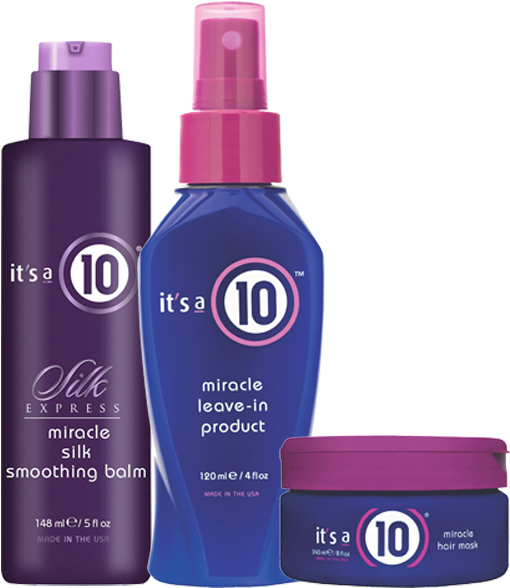
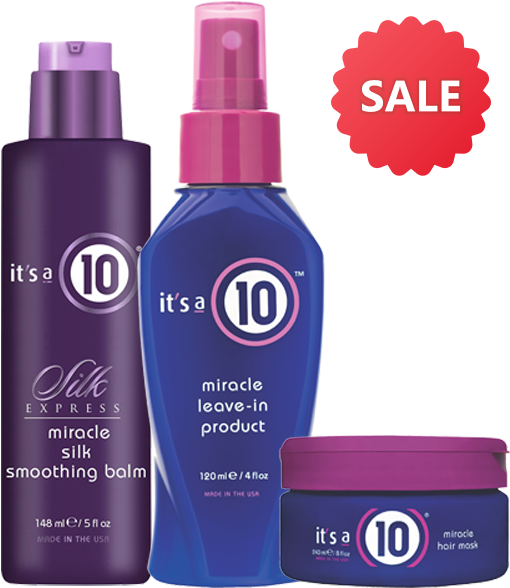
Added sale stickers and edited services
I added some sale stickers using GIMP and I evened out the prices on my services page

Changed region(s): [[0.6471, 0.0306, 0.9706, 0.3061]]

diff --git a/docs/services.html b/docs/services.html
@@ -8,7 +8,6 @@
     <link rel="stylesheet" href="https://stackpath.bootstrapcdn.com/bootstrap/4.3.1/css/bootstrap.min.css" integrity="sha384-ggOyR0iXCbMQv3Xipma34MD+dH/1fQ784/j6cY/iJTQUOhcWr7x9JvoRxT2MZw1T" crossorigin="anonymous">
     <nav class="navbar navbar-expand-lg nav-back fixed-top"
     id="mainNav">
-    <a class="navbar-icon" href="index.html"><img src="images/icon.png" alt="Scissors"</img></a>
     <img src="images/logo_txt.png" class='logo-txt' alt="Gretchen's Hair Salon" height='50'</img>
       <div class="container">
           <button class="navbar-toggler navbar-toggler-right" type="button"
@@ -28,7 +27,6 @@
                     href="consultation.html">Consultations</a></li>
               </ul>
           </div>
-      </div>
 
           <button onclick="darkMode()">Darkmode</button>
           <button onclick="lightMode()">LightMode</button>
@@ -47,6 +45,7 @@
             }
           </script>
     </nav>
+    </div>
 
 <h1 class='s-title'>Services</h1>
     <div class="row">
@@ -59,51 +58,50 @@
 
  <h2>Hair Cuts</h2>
 
-    <p> Women's Cut.......................55.00-75.00</p>
-    <p> Men's Cut.........................35.00-55.00</p>
-    <p> Kid's Cut(10 and under)...........25.00</p>
+    <p> Women's Cut............. 55.00-75.00</p>
+    <p> Men's Cut................... 35.00-55.00</p>
+    <p> Kid's Cut(10 and under)......25.00</p>
 
 <h2> Hair Styles</h2>
 
-   <p> Wash and Blow Dry....................40.00-50.00</p>
-   <p>Half Updo.............................65.00</p>
-   <p>Full Updo............................95.00</p>
-   <p>Add Braid...........................5.00</p>
-   <p>Add Curl............................5.00</p>
+   <p> Wash & Blow Dry......40.00-50.00</p>
+   <p>Half Updo.................................65.00</p>
+   <p>Full Updo..................................95.00</p>
+   <p>Add Braid..................................5.00</p>
+   <p>Add Curl.....................................5.00</p>
 
 <h2>Hair Color</h2>
-   <p>Color Wash..............................................45.00-60.00</p>
-   <p>Full Glaze.................................................75.00-80.00</p>
-   <p>Retouch....................................................75.00-80.00</p>
-   <p>Partial Highlight........................................90.00-135.00</p>
-   <p>Full Highlight.............................................130.00-175.00</p>
-   <p>Balayage....................................................160.00-200.00</p>
-   <p>Bleach Retouch Double Process.............125.00-150.00</p>
-   <p>Creative Color............................................Variable Prices<p>
-   <p>Corrective Color.........................................Variable Prices<p>
+   <p>Color Wash..............................45.00-60.00</p>
+   <p>Full Glaze..................................75.00-80.00</p>
+   <p>Retouch......................................75.00-80.00</p>
+   <p>Partial Highlight......................90.00-135.00</p>
+   <p>Full Highlight..........................130.00-175.00</p>
+   <p>Balayage...................................160.00-200.00</p>
+   <p>Bleach Retouch.......................125.00-150.00</p>
+   <p>Creative Color.........................Variable Prices<p>
+   <p>Corrective Color.....................Variable Prices<p>
 
 <h2>Add Ons</h2>
-   <p>Deep Conditioning..............................................30.00</p>
-   <p>Perm.................................................105.00</p>
+   <p>Deep Conditioning................30.00</p>
+   <p>Perm...........................................105.00</p>
   </div>
   <div class="service">
     <h2>Waxing</h2>
     <p>Eyebrow Wax.......................................................22.00</p>
     <p>Chin Wax...............................................................18.00</p>
-    <p>Lip Wax.................................................................15.00</p>
-    <p>Lip & Brow Combo..............................................35.00</p>
-    <p>Full Face................................................................50.00</p>
+    <p>Lip Wax...................................................................15.00</p>
+    <p>Lip & Brow Combo............................................35.00</p>
+    <p>Full Face..................................................................50.00</p>
 
   </div>
   <div class="service">
     <h2>Nails</h2>
-    <p>Gel Manicure With French..................40.00</p>
-    <p>Gel Manicure With Regular Toe Polish............50.00</p>
-    <p>Acrylic Fill With Gel & Regular Toe Polish..........55.00</p>
-    <p>Manicure...................................20.00</p>
-    <p>Manicure With Gel Removal...................25.00</p>
-    <p>Gel Manicure...............................35.00</p>
-    <p>Gel Manicure With Removal..................35.00</p>
+    <p>Gel Manicure With French..........................40.00</p>
+    <p>Gel Manicure With Regular Toe Polish...50.00</p>
+    <p>Manicure............................................................20.00</p>
+    <p>Manicure With Gel Removal.......................25.00</p>
+    <p>Gel Manicure.....................................................35.00</p>
+    <p>Gel Manicure With Removal........................35.00</p>
   </div>
 </div>
 

diff --git a/docs/products.html b/docs/products.html
@@ -8,7 +8,6 @@
 <link rel="stylesheet" href="https://stackpath.bootstrapcdn.com/bootstrap/4.3.1/css/bootstrap.min.css" integrity="sha384-ggOyR0iXCbMQv3Xipma34MD+dH/1fQ784/j6cY/iJTQUOhcWr7x9JvoRxT2MZw1T" crossorigin="anonymous">
     <nav class="navbar navbar-expand-lg nav-back fixed-top"
     id="mainNav">
-    <a class="navbar-icon" href="index.html"><img src="images/icon.png" alt="Scissors"</img></a>
     <img src="images/logo_txt.png" class='logo-txt' alt="Gretchen's Hair Salon" height='50'</img>
       <div class="container">
           <button class="navbar-toggler navbar-toggler-right" type="button"
@@ -57,9 +56,9 @@
 
     <div class='sales-row'>
       <div class ="info">
-      <img src="images/dsc.png" alt="Dollar Shave Club Gel" width="250" height='250'</img>
-      <p>Dollar Shave Club Gel</p>
-        <strike class= 'og-price'>15.00</strike> <p class = 'sale'> 10.00</p>
+      <img src="images/argan.png" alt="Argan Oil Shampoo" width="250" height='250'</img>
+      <p>Argan Oil Shampoo</p>
+        <strike class= 'og-price'>15.99</strike> <p class = 'sale'> 10.99</p>
     </div>
     <div class= "info">
       <img src="images/10.png" alt="It's A 10 Set" width='250' height='250'</img>
@@ -73,9 +72,9 @@
 
     </div>
     <div class = 'info'>
-      <img src="images/argan.png" alt="Argan Hair Set" width='250' height='250'</img>
-      <p>Argan Hair Care Set</p>
-      <p class= 'price'>35.99</p>
+      <img src="images/dsc.png" alt="Dollar Shave Club Hair Gel" width='250' height='250'</img>
+      <p>Dollar Shave Club Hair Gel</p>
+      <p class= 'price'>15.99</p>
 
     </div>
 

diff --git a/docs/index.html b/docs/index.html
@@ -8,7 +8,6 @@
   <body>
     <link rel="stylesheet" href="https://stackpath.bootstrapcdn.com/bootstrap/4.3.1/css/bootstrap.min.css" integrity="sha384-ggOyR0iXCbMQv3Xipma34MD+dH/1fQ784/j6cY/iJTQUOhcWr7x9JvoRxT2MZw1T" crossorigin="anonymous">
     <nav class="navbar navbar-expand-lg nav-back fixed-top" id="mainNav">
-      <a class="navbar-icon" href="index.html"><img src="images/icon.png" alt="Scissors"</img></a>
       <img src="images/logo_txt.png" class='logo-txt' alt="Gretchen's Hair Salon" height='50'</img>
       <div class="container">
           <button class="navbar-toggler navbar-toggler-right" type="button"
@@ -63,9 +62,9 @@
       </div>
       <div class='sales-row'>
         <div class ="info">
-        <img src="images/dsc.png" alt="Dollar Shave Club Gel" width="250" height='250'</img>
-        <p>Dollar Shave Club Gel</p>
-          <strike class= 'og-price'>15.00</strike> <p class = 'sale'> 10.00</p>
+        <img src="images/argan.png" alt="Argan Oil Shampoo" width="250" height='250'</img>
+        <p>Argan Oil Shampoo</p>
+          <strike class= 'og-price'>15.99</strike> <p class = 'sale'> 10.99</p>
       </div>
       <div class= "info">
         <img src="images/10.png" alt="It's A 10 Set" width='250' height='250'</img>
@@ -102,6 +101,8 @@ Monday Closed</p>
 </div>
 </div>
 </section>
+
+
 
    <!-- Footer-->
    <footer>

diff --git a/docs/consultation.html b/docs/consultation.html
@@ -16,7 +16,6 @@
 <body>
 <nav class="navbar navbar-expand-lg nav-back fixed-top"
 id="mainNav">
-<a class="navbar-icon" href="index.html"><img src="images/icon.png" alt="Scissors"</img></a>
 <img src="images/logo_txt.png" class='logo-txt' alt="Gretchen's Hair Salon" height='50'</img>
   <div class="container">
       <button class="navbar-toggler navbar-toggler-right" type="button"
